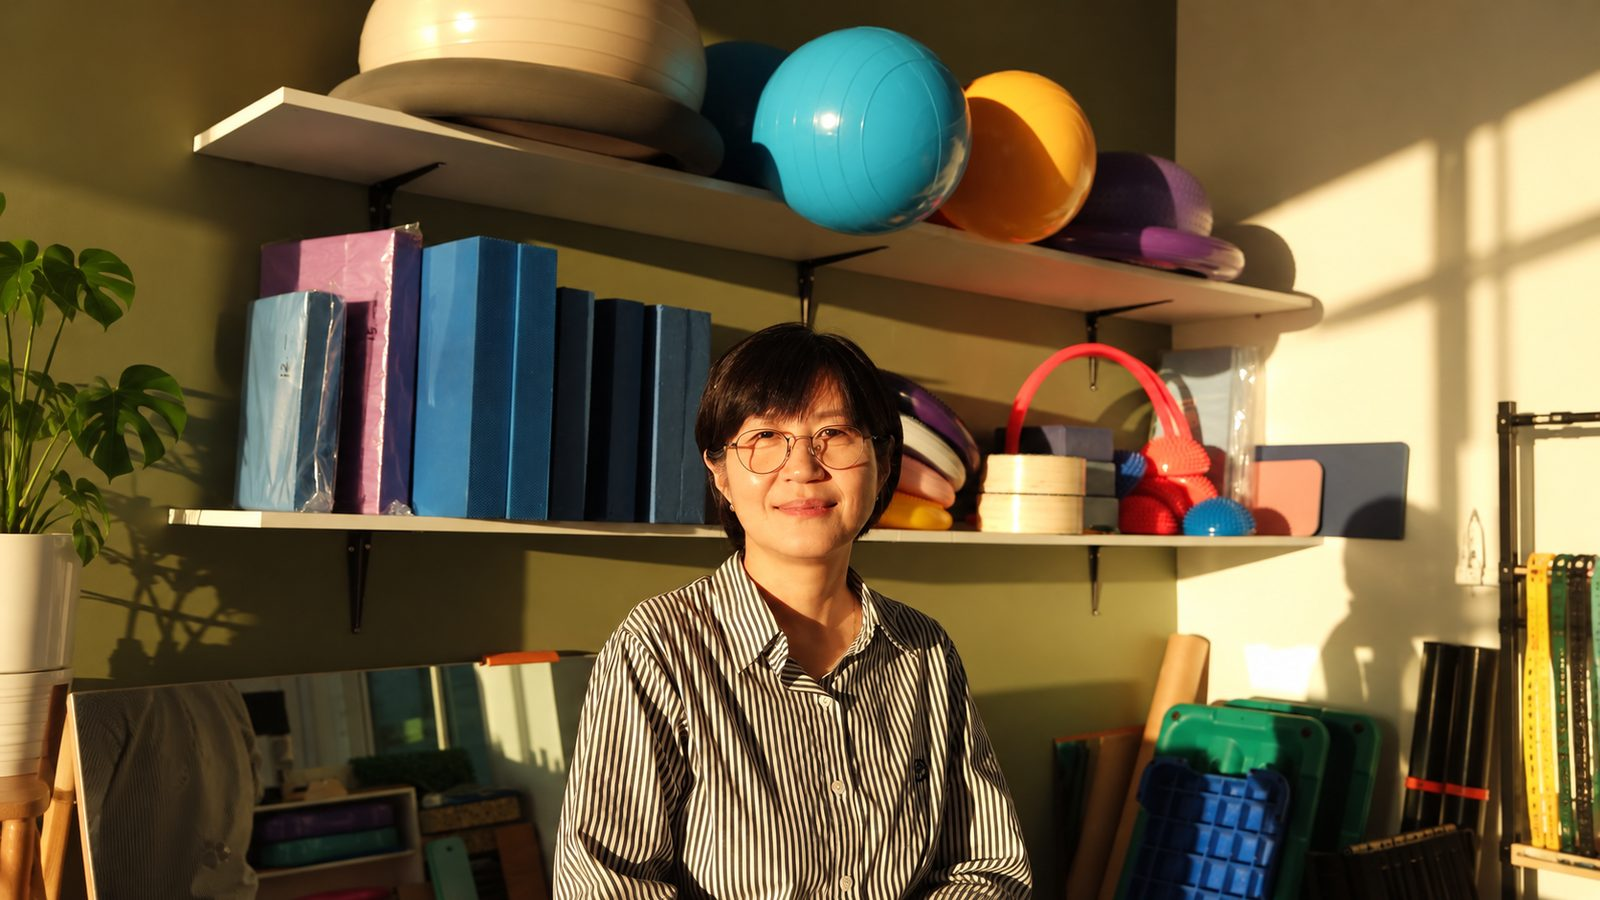
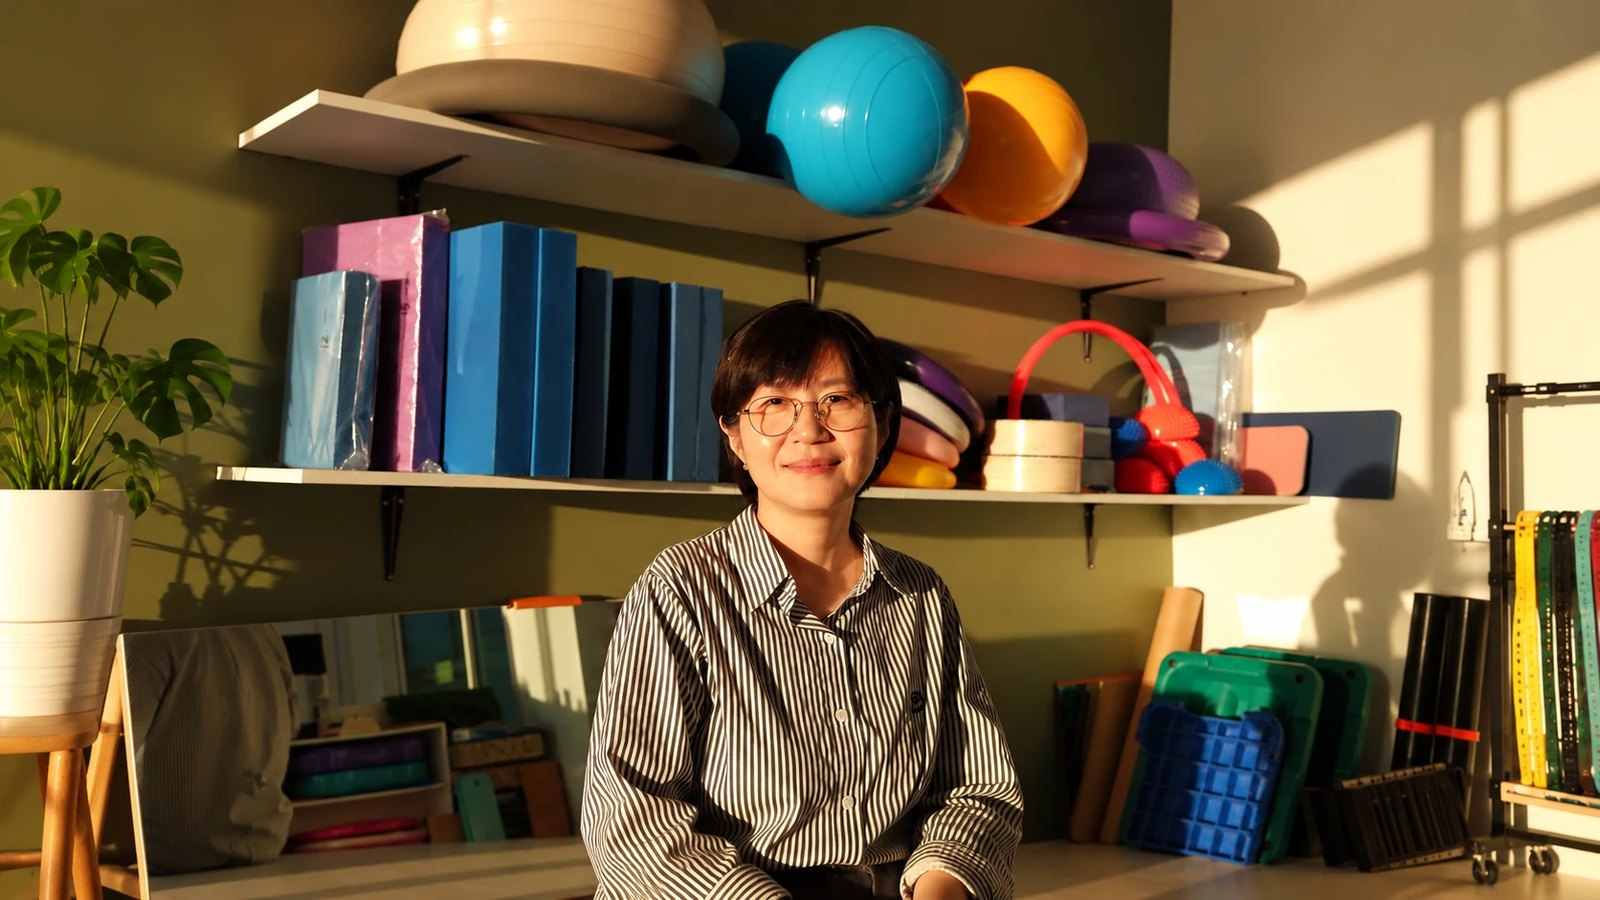
에밀리 사진을 넓은 사진으로 바꾸고 휴대폰 양옆 여백 없애기
사용자가 준 더 넓은 사진(손까지 나옴)으로 배경을 바꾸고, 누끼도 새 사진에 맞게 옮겼다.
휴대폰에서 사진을 0.92배로 줄이던 설정을 빼서 양옆 어두운 여백이 없어진다.

diff --git a/public/css/style.css b/public/css/style.css
@@ -889,10 +889,10 @@ a { color: inherit; }
   .people .person__top { position: relative; inset: auto; }
   .people .person__center { position: static; flex: 1; min-height: 0; display: flex; flex-direction: column; }
   .people .person--photo .person__center { z-index: 4; }   /* 앞 제목이 아래로 내려와도 무대 아래쪽 어둡게 덮는 층(::after)보다 위에 */
-  /* 에밀리: 세로 화면에서는 사진 높이가 무대에 꼭 맞아 위아래 여유가 없다.
-     배경·누끼를 함께 0.92배로 줄이고 위로 8% 당겨, 인물은 작게·얼굴은 무대 높이 약 40%에 둔다.
-     사진 아래 끝(무대 약 84%)은 서서히 흐려 무대 아래쪽 어두운 색으로 이어진다 */
-  .person--photo-side .person__photo { transform-origin: 50% 0; scale: .92; translate: 0 -8%; }
+  /* 에밀리: 세로 화면에서는 사진 높이가 무대에 꼭 맞는다. 사진(손까지 나오는 넓은 사진, 2026-10-22 교체)은 줄이지 않아
+     양옆이 꽉 차고, 배경·누끼를 함께 위로 8% 당겨 얼굴을 무대 높이 약 40%에 둔다.
+     사진 아래 끝(무대 약 92%)은 서서히 흐려 무대 아래쪽 어두운 색으로 이어진다 */
+  .person--photo-side .person__photo { translate: 0 -8%; }
   .person--photo-side .person__photo:not(.person__cut) {
     -webkit-mask-image: linear-gradient(180deg, #000 0, #000 80%, transparent 100%);
     mask-image: linear-gradient(180deg, #000 0, #000 80%, transparent 100%);

diff --git a/CLAUDE.md b/CLAUDE.md
@@ -99,6 +99,9 @@ ijejumin-webzine/
   3. 파랑오브레코즈
   4. 에밀리 ("반려견과 함께하는 제주 살이의 의미")
 - 사진은 `interview-0N-photo.jpg`, 누끼(배경을 지운 인물)는 `interview-0N-cut.webp`
+  - 에밀리 사진(04)은 사용자가 준 더 넓은 사진(손까지 나옴)으로 바꿨다 (2026-10-22). 1600×900으로 줄여 넣었다
+    - 휴대폰에서 사진을 0.92배로 줄여 양옆에 어두운 여백이 생기던 것을 없앴다. 이제 줄이지 않고 위로 8%만 당긴다
+    - 누끼는 예전 누끼의 모양(투명도)을 새 사진에 맞게 옮기고(배율 0.9278, 머리·어깨 기준), 색은 새 사진에서 가져왔다
 - 제목은 두 겹이다. 뒤는 외곽선 글자(주황 줄)이고 앞은 흰 글자에 주황 마침표·밑줄이 붙는다
   - 순서: 외곽선 글자 → 누끼 인물 → 앞 글자. 그래서 글자가 인물 뒤로 지나가는 것처럼 보인다
 - 사진 아래쪽은 검정(`#0A0E14`)으로 서서히 이어져 다음 섹션과 자연스럽게 붙는다
